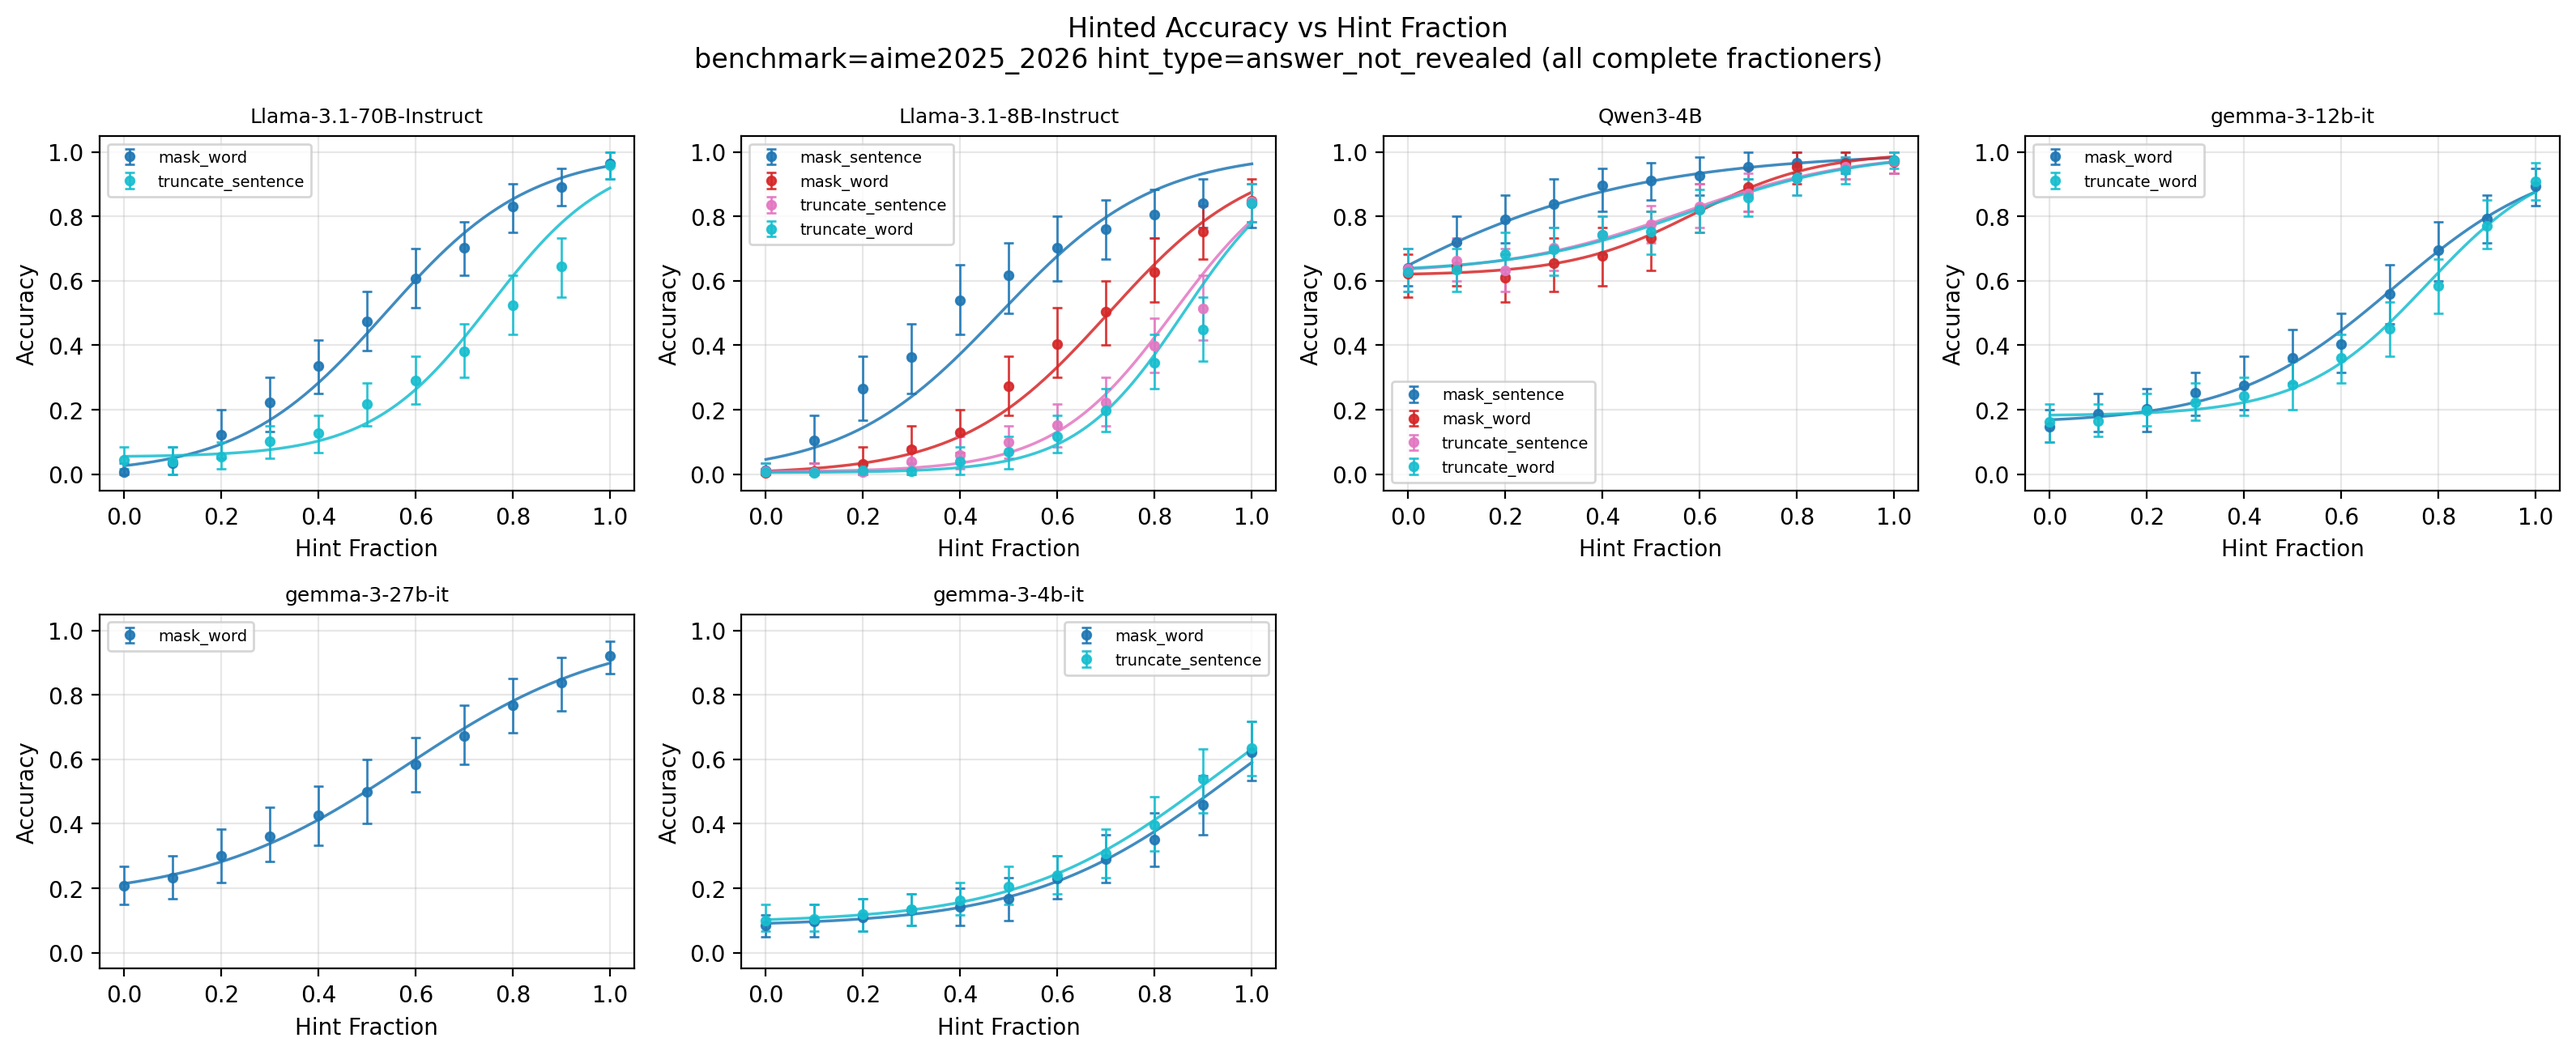
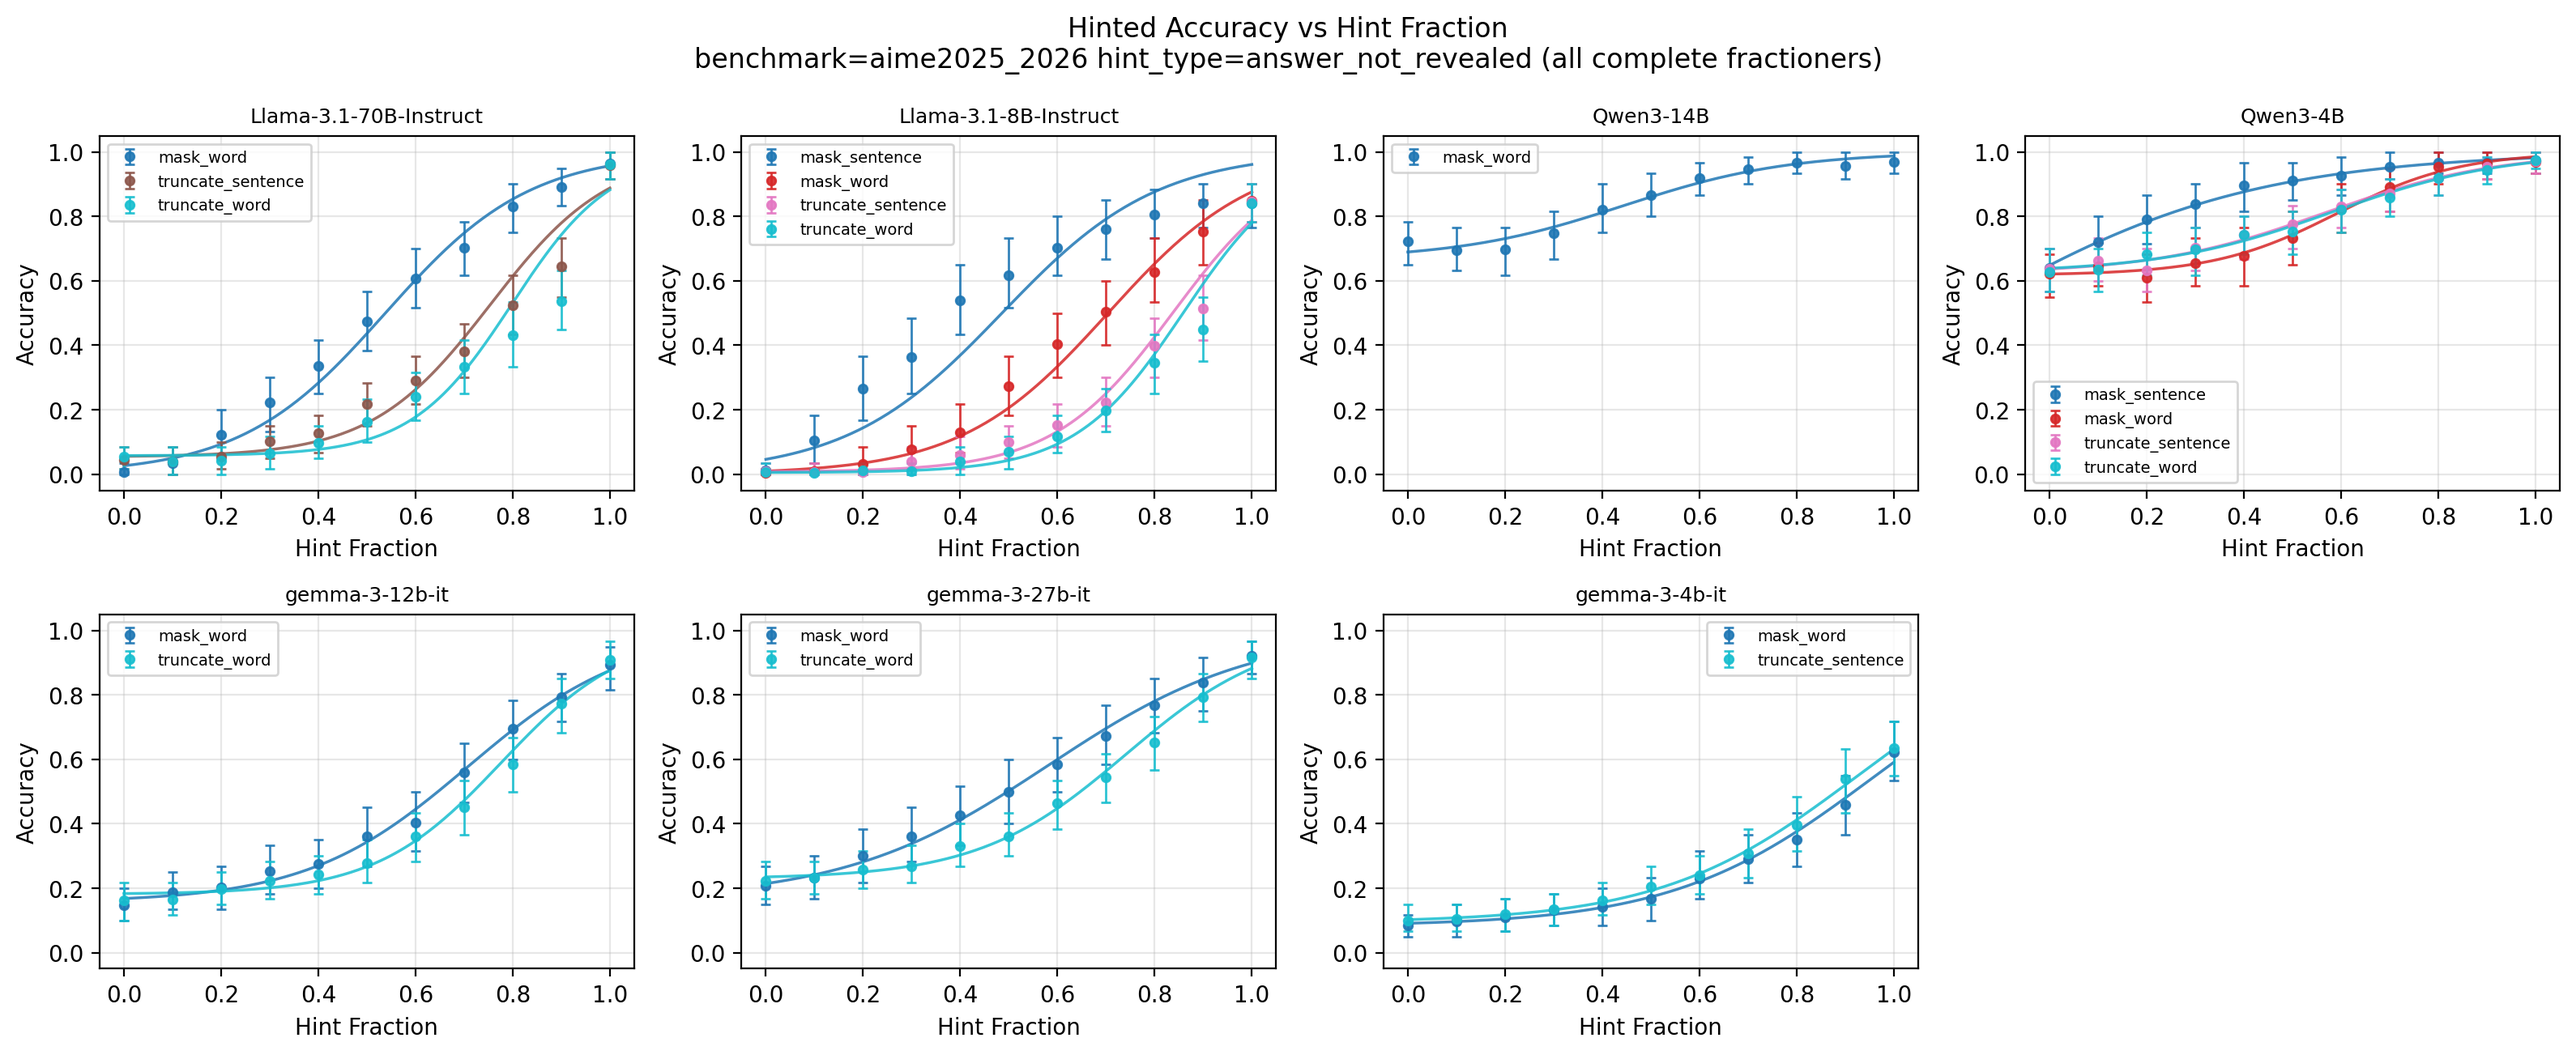
plots

diff --git a/runs/plot_hinted_accuracy_vs_hint.py b/runs/plot_hinted_accuracy_vs_hint.py
@@ -13,6 +13,7 @@ from scipy.optimize import curve_fit
 
 DATA_ROOT = Path("data")
 PLOTS_ROOT = Path("plots/accuracy_vs_hint")
+MASK_WORD_RESULTS_WITH_CI_PATH = DATA_ROOT / "results_with_ci_mask_word.json"
 N_BOOTSTRAP = 5000
 RANDOM_SEED = 0
 EXPECTED_FRACTIONS = [i / 10 for i in range(11)]
@@ -72,6 +73,44 @@ def _discover_models(benchmark: str) -> list[str]:
     if not benchmark_dir.exists():
         raise FileNotFoundError(f"Missing benchmark directory: {benchmark_dir}")
     return sorted(path.name for path in benchmark_dir.iterdir() if path.is_dir())
+
+
+def _load_external_mask_word_results() -> dict[str, dict[float, dict[str, float]]] | None:
+    if not MASK_WORD_RESULTS_WITH_CI_PATH.exists():
+        return None
+
+    with open(MASK_WORD_RESULTS_WITH_CI_PATH, "r", encoding="utf-8") as f:
+        payload = json.load(f)
+    if not isinstance(payload, dict):
+        raise ValueError(
+            f"Expected top-level object in {MASK_WORD_RESULTS_WITH_CI_PATH}, got {type(payload).__name__}"
+        )
+
+    out: dict[str, dict[float, dict[str, float]]] = {}
+    for model, model_payload in payload.items():
+        if not isinstance(model, str) or not isinstance(model_payload, dict):
+            continue
+        fraction_map: dict[float, dict[str, float]] = {}
+        for hint_fraction_raw, stats in model_payload.items():
+            if not isinstance(stats, dict):
+                continue
+            try:
+                hint_fraction = float(hint_fraction_raw)
+            except (TypeError, ValueError):
+                continue
+            mean = stats.get("mean")
+            ci_lower = stats.get("ci_lower")
+            ci_upper = stats.get("ci_upper")
+            if not all(isinstance(value, (float, int)) for value in (mean, ci_lower, ci_upper)):
+                continue
+            fraction_map[float(hint_fraction)] = {
+                "accuracy": float(mean),
+                "ci_low": float(ci_lower),
+                "ci_high": float(ci_upper),
+            }
+        if fraction_map:
+            out[model] = fraction_map
+    return out
 
 
 def _parse_fraction_from_filename(name: str) -> float:
@@ -317,11 +356,13 @@ def _plot(
     results: list[dict[str, Any]],
     *,
     fit_map: dict[tuple[str, str], dict[str, float]],
+    external_results: list[dict[str, Any]],
+    external_fit_map: dict[tuple[str, str], dict[str, float]],
     output_png: Path,
     show_values: bool,
     title: str,
 ) -> None:
-    models = sorted({row["model"] for row in results})
+    models = sorted({row["model"] for row in results} | {row["model"] for row in external_results})
     n_models = len(models)
 
     if n_models == 1:
@@ -336,6 +377,7 @@ def _plot(
     for idx, model in enumerate(models):
         ax = axes[idx]
         model_rows = [row for row in results if row["model"] == model]
+        external_model_rows = [row for row in external_results if row["model"] == model]
         fractioners = sorted({str(row["fractioner"]) for row in model_rows})
         cmap = plt.cm.tab10
         for j, fractioner in enumerate(fractioners):
@@ -386,6 +428,58 @@ def _plot(
                     float(fit["sigmoid_bias"]),
                 )
                 ax.plot(x_fit, y_fit, "-", color=color, linewidth=1.25, alpha=0.85)
+
+        external_fractioners = sorted({str(row["fractioner"]) for row in external_model_rows})
+        for fractioner in external_fractioners:
+            series_rows = sorted(
+                [row for row in external_model_rows if row["fractioner"] == fractioner],
+                key=lambda row: float(row["hint_fraction"]),
+            )
+            x = np.asarray([float(row["hint_fraction"]) for row in series_rows], dtype=float)
+            y = np.asarray([float(row["accuracy"]) for row in series_rows], dtype=float)
+            low = np.asarray([float(row["ci_low"]) for row in series_rows], dtype=float)
+            high = np.asarray([float(row["ci_high"]) for row in series_rows], dtype=float)
+            yerr = np.vstack([y - low, high - y])
+
+            overlay_color = "#111111"
+            ax.errorbar(
+                x,
+                y,
+                yerr=yerr,
+                fmt="s",
+                alpha=0.95,
+                markersize=3.8,
+                capsize=2.0,
+                elinewidth=1.0,
+                capthick=1.0,
+                color=overlay_color,
+                linestyle="none",
+                linewidth=1.0,
+                label=f"{fractioner}_luke",
+            )
+            if show_values:
+                for x_i, y_i in zip(x, y):
+                    ax.annotate(
+                        f"{y_i:.2f}",
+                        (float(x_i), float(y_i)),
+                        xytext=(4, -9),
+                        textcoords="offset points",
+                        fontsize=6,
+                        color=overlay_color,
+                        alpha=0.9,
+                    )
+
+            fit_key = (str(model), str(fractioner))
+            fit = external_fit_map.get(fit_key)
+            if fit is not None:
+                x_fit = np.linspace(0.0, 1.0, 200, dtype=float)
+                y_fit = _sigmoid_curve(
+                    x_fit,
+                    float(fit["sigmoid_lower"]),
+                    float(fit["sigmoid_slope"]),
+                    float(fit["sigmoid_bias"]),
+                )
+                ax.plot(x_fit, y_fit, "--", color=overlay_color, linewidth=1.25, alpha=0.9)
         ax.set_title(model, fontsize=9)
         ax.set_xlabel("Hint Fraction")
         ax.set_ylabel("Accuracy")
@@ -407,21 +501,25 @@ def _plot(
 def main() -> None:
     args = _parse_args()
     models_available = _discover_models(args.benchmark)
-    if not models_available:
+    external_mask_word = _load_external_mask_word_results()
+    external_models_available = sorted(external_mask_word.keys()) if external_mask_word else []
+    if not models_available and not external_models_available:
         raise ValueError(f"No models found for benchmark={args.benchmark!r}.")
 
     if args.model == "all":
-        models_to_plot = models_available
+        models_to_plot = sorted(set(models_available) | set(external_models_available))
     else:
-        if args.model not in models_available:
+        available_models = sorted(set(models_available) | set(external_models_available))
+        if args.model not in available_models:
             raise ValueError(
                 f"Requested model {args.model!r} not found. "
-                f"Available: {models_available}"
+                f"Available: {available_models}"
             )
         models_to_plot = [args.model]
 
     rng = np.random.default_rng(RANDOM_SEED)
     rows: list[dict[str, Any]] = []
+    external_rows: list[dict[str, Any]] = []
 
     expected_fraction_set = {float(f"{value:.6f}") for value in EXPECTED_FRACTIONS}
 
@@ -521,7 +619,50 @@ def main() -> None:
                 f"fractioner={fractioner} {means_text}"
             )
 
-    if not rows:
+    if args.fractioner == "mask_word" and external_mask_word:
+        for model in models_to_plot:
+            model_payload = external_mask_word.get(model)
+            if not model_payload:
+                continue
+            missing = sorted(expected_fraction_set - set(model_payload.keys()))
+            if missing:
+                print(
+                    f"[plot_hinted_accuracy_vs_hint][WARN] external mask_word data missing "
+                    f"fractions model={model} missing_fractions={missing}"
+                )
+                continue
+
+            fraction_rows: list[dict[str, Any]] = []
+            for hint_fraction in EXPECTED_FRACTIONS:
+                stats = model_payload[float(hint_fraction)]
+                fraction_rows.append(
+                    {
+                        "model": model,
+                        "fractioner": "mask_word",
+                        "hint_fraction": float(hint_fraction),
+                        "accuracy": float(stats["accuracy"]),
+                        "ci_low": float(stats["ci_low"]),
+                        "ci_high": float(stats["ci_high"]),
+                        "n_samples": 0,
+                        "n_rollouts": 0,
+                        "rows_total": 0,
+                        "rows_with_known_label": 0,
+                        "rows_without_known_label": 0,
+                        "path": str(MASK_WORD_RESULTS_WITH_CI_PATH),
+                        "source": "external_mask_word",
+                    }
+                )
+            external_rows.extend(fraction_rows)
+            means_text = ", ".join(
+                f"{float(row['hint_fraction']):.1f}:{float(row['accuracy']):.4f}"
+                for row in fraction_rows
+            )
+            print(
+                f"[plot_hinted_accuracy_vs_hint] external means model={model} "
+                f"fractioner=mask_word {means_text}"
+            )
+
+    if not rows and not external_rows:
         raise ValueError("No usable rows collected. Check benchmark/model/hint_type/fractioner.")
 
     rows_sorted = sorted(
@@ -549,6 +690,22 @@ def main() -> None:
             f"midpoint={float(fit['sigmoid_midpoint']):.4f} "
             f"rmse={float(fit['sigmoid_rmse']):.4f}"
         )
+
+    external_fit_map: dict[tuple[str, str], dict[str, float]] = {}
+    external_rows_sorted = sorted(
+        external_rows,
+        key=lambda r: (str(r["model"]), str(r["fractioner"]), float(r["hint_fraction"])),
+    )
+    external_series_map: dict[tuple[str, str], list[dict[str, Any]]] = {}
+    for row in external_rows_sorted:
+        key = (str(row["model"]), str(row["fractioner"]))
+        external_series_map.setdefault(key, []).append(row)
+
+    for key, series_rows in sorted(external_series_map.items()):
+        fit = _fit_sigmoid_for_series(series_rows)
+        if fit is None:
+            continue
+        external_fit_map[key] = fit
 
     stem = (
         f"{_safe_component(args.benchmark)}__{_safe_component(args.hint_type)}__"
@@ -589,6 +746,8 @@ def main() -> None:
     _plot(
         rows_sorted,
         fit_map=fit_map,
+        external_results=external_rows_sorted,
+        external_fit_map=external_fit_map,
         output_png=png_path,
         show_values=args.show_values,
         title=(

diff --git a/runs/generate_hinted.py b/runs/generate_hinted.py
@@ -511,11 +511,11 @@ MISO
 python -m runs.generate_hinted \
     --benchmark aime2025_2026 \
     --hint-type answer_not_revealed \
-    --fractioner truncate_word \
-    --model google/gemma-3-27b-it \
+    --fractioner mask_word \
+    --model Qwen/Qwen2.5-14B-Instruct \
     --executor submitit \
     --cluster miso \
-    --max-connections 260 \
+    --max-connections 320 \
     --num-gpus 8 \
     --checkpoint-every 1000
 
@@ -526,6 +526,7 @@ python -m runs.generate_hinted \
 Qwen/Qwen2.5-32B-Instruct
 Qwen/Qwen2.5-14B-Instruct
 Qwen/Qwen3-32B
+Qwen/Qwen3-14B
 
 NLP
 python -m runs.generate_hinted \
